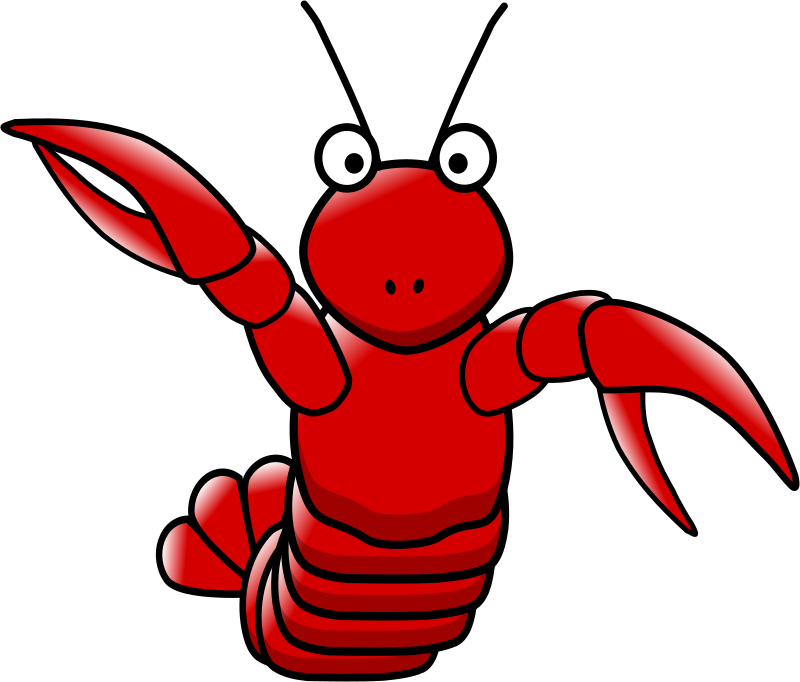
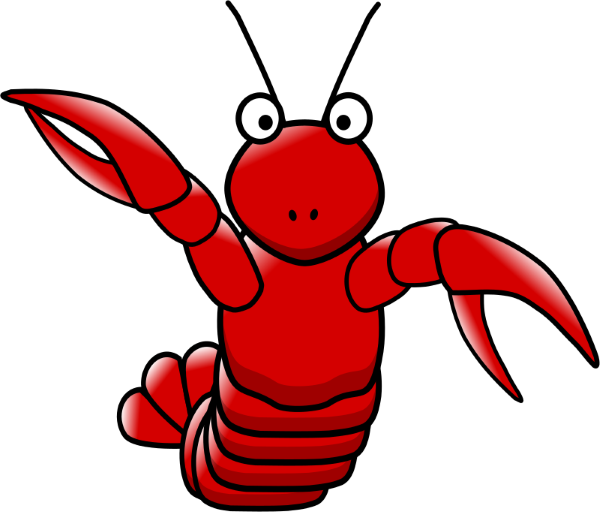
Added ClobType editting and deleting, changed the splash screen;

Changed region(s): [[0.99, 0.6875, 1.0, 0.7188], [0.3, 0.875, 0.33, 0.9062]]

diff --git a/LobsterWpf/TableSelectorWindow.xaml b/LobsterWpf/TableSelectorWindow.xaml
@@ -5,27 +5,26 @@
         xmlns:mc="http://schemas.openxmlformats.org/markup-compatibility/2006"
         xmlns:local="clr-namespace:LobsterWpf"
         mc:Ignorable="d"
-        Title="TableSelectorWindow" Height="300" Width="300" ResizeMode="NoResize" Icon="Resources/Images/cartoon-lobster.ico">
-    <Grid>
-        <Grid.RowDefinitions>
-            <RowDefinition Height="42.667"/>
-            <RowDefinition/>
-            <RowDefinition Height="31.333" />
-        </Grid.RowDefinitions>
-        <StackPanel Orientation="Horizontal" Grid.Row="2" HorizontalAlignment="Right" Margin="0,0.333,0,0" Width="160">
-            <Button x:Name="acceptButton" Content="Accept" HorizontalAlignment="Right" VerticalAlignment="Center" Width="75" Height="20" Margin="0,6,10,5" Click="AcceptButton_Click"/>
-            <Button x:Name="cancelButton" Content="Cancel" HorizontalAlignment="Right" VerticalAlignment="Center" Width="75" Height="20" Margin="0,6,15,5" RenderTransformOrigin="0.5,0.5" Click="CancelButton_Click"/>
-        </StackPanel>
-        <ListBox x:Name="tableListBox" HorizontalAlignment="Left" Grid.Row="1" Margin="10,5.333,0,4.333" Width="273" ItemsSource="{Binding TableList}">
-            <ListBox.ItemTemplate>
-                <DataTemplate DataType="Table">
-                    <StackPanel>
-                        <TextBlock Text="{Binding Fullname}"/>
-                    </StackPanel>
-                </DataTemplate>
-            </ListBox.ItemTemplate>
-        </ListBox>
-        <Label x:Name="label" Content="{Binding MessageLabel, FallbackValue=Label}" HorizontalAlignment="Left" HorizontalContentAlignment="Stretch" Margin="10,10,0,0" VerticalAlignment="Top"  Grid.Row="0"/>
-
-    </Grid>
+        Title="TableSelectorWindow" Height="300" Width="300" ResizeMode="NoResize" Icon="Resources/Images/cartoon-lobster.ico" ShowInTaskbar="False">
+  <Grid>
+    <Grid.RowDefinitions>
+      <RowDefinition Height="Auto"/>
+      <RowDefinition/>
+      <RowDefinition Height="Auto" />
+    </Grid.RowDefinitions>
+    <Label x:Name="label" Content="{Binding MessageLabel, FallbackValue=Label}" HorizontalAlignment="Left" HorizontalContentAlignment="Stretch" Margin="5" VerticalAlignment="Top"  Grid.Row="0"/>
+    <StackPanel Orientation="Horizontal" Grid.Row="2" HorizontalAlignment="Right" Margin="5">
+      <Button x:Name="acceptButton" Content="Accept" HorizontalAlignment="Right" VerticalAlignment="Center" Width="75"  Click="AcceptButton_Click"/>
+      <Button x:Name="cancelButton" Content="Cancel" HorizontalAlignment="Right" VerticalAlignment="Center" Width="75"  Margin="5,0,0,0" Click="CancelButton_Click"/>
+    </StackPanel>
+    <ListBox x:Name="tableListBox" HorizontalAlignment="Left" Grid.Row="1" ItemsSource="{Binding TableList}">
+      <ListBox.ItemTemplate>
+        <DataTemplate DataType="Table">
+          <StackPanel>
+            <TextBlock Text="{Binding Fullname}"/>
+          </StackPanel>
+        </DataTemplate>
+      </ListBox.ItemTemplate>
+    </ListBox>
+  </Grid>
 </Window>

diff --git a/LobsterWpf/ClobTypeListWindow.xaml b/LobsterWpf/ClobTypeListWindow.xaml
@@ -5,13 +5,13 @@
         xmlns:mc="http://schemas.openxmlformats.org/markup-compatibility/2006"
         xmlns:local="clr-namespace:LobsterWpf"
         mc:Ignorable="d"
-        Title="ClobTypeListWindow" Height="300" Width="400" MinWidth="500" MinHeight="300">
+        Title="ClobTypeListWindow" Height="300" Width="400" MinWidth="400" MinHeight="300">
   <Grid>
     <Grid.RowDefinitions>
       <RowDefinition Height="*"/>
       <RowDefinition Height="Auto"/>
     </Grid.RowDefinitions>
-    <ListBox Grid.Row="0" ItemsSource="{Binding ClobTypeList}">
+    <ListBox Name="clobTypeListBox" Grid.Row="0" ItemsSource="{Binding ClobTypeList}">
       <ListBox.ItemTemplate>
         <DataTemplate DataType="ClobTypeView">
           <StackPanel>
@@ -28,12 +28,11 @@
       </Grid.ColumnDefinitions>
 
       <StackPanel Grid.Column="0" Orientation="Horizontal">
-        <Button Margin="5" Width="75" HorizontalAlignment="Left">New</Button>
-        <Button Margin="5" Width="75" HorizontalAlignment="Left">Edit</Button>
-        <Button Margin="5" Width="75" HorizontalAlignment="Left">Delete</Button>
+        <Button Margin="5" Width="75" HorizontalAlignment="Left" Click="NewButton_Click">New</Button>
+        <Button Margin="5" Width="75" HorizontalAlignment="Left" Click="EditButton_Click">Edit</Button>
+        <Button Margin="5" Width="75" HorizontalAlignment="Left" Click="DeleteButton_Click">Delete</Button>
       </StackPanel>
-      <Button Grid.Column="1" Margin="5" Width="75" HorizontalAlignment="Right">Cancel</Button>
+      <Button Grid.Column="1" Margin="5" Width="75" HorizontalAlignment="Right" Click="CancelButton_Click">Cancel</Button>
     </Grid>
-    
   </Grid>
 </Window>

diff --git a/LobsterWpf/ConnectionListWindow.xaml b/LobsterWpf/ConnectionListWindow.xaml
@@ -5,7 +5,7 @@
         xmlns:mc="http://schemas.openxmlformats.org/markup-compatibility/2006"
         xmlns:local="clr-namespace:LobsterWpf"
         mc:Ignorable="d"
-        Title="Connections" Height="500" Width="500" Icon="Resources/Images/cartoon-lobster.ico">
+        Title="Connections" Height="500" Width="500" Icon="Resources/Images/cartoon-lobster.ico" ShowInTaskbar="False">
   <Grid>
     <Grid.RowDefinitions>
       <RowDefinition Height="35"/>

diff --git a/LobsterWpf/EditClobTypeWindow.xaml b/LobsterWpf/EditClobTypeWindow.xaml
@@ -5,7 +5,7 @@
         xmlns:mc="http://schemas.openxmlformats.org/markup-compatibility/2006"
         xmlns:local="clr-namespace:LobsterWpf"
         mc:Ignorable="d"
-        Title="EditClobTypeWindow" Height="300" Width="300">
+        Title="EditClobTypeWindow" Height="300" Width="300" ShowInTaskbar="False">
   <Grid>
     <Grid.ColumnDefinitions>
       <ColumnDefinition Width="Auto"/>

diff --git a/LobsterWpf/ClobTypeListWindow.xaml.cs b/LobsterWpf/ClobTypeListWindow.xaml.cs
@@ -18,6 +18,7 @@ namespace LobsterWpf
 {
     using System.Collections.Generic;
     using System.Collections.ObjectModel;
+    using System.IO;
     using System.Windows;
     using LobsterModel;
 
@@ -60,6 +61,51 @@ namespace LobsterWpf
                 ClobTypeView view = new ClobTypeView(type);
                 this.ClobTypeList.Add(view);
             }
+        }
+
+        private void NewButton_Click(object sender, RoutedEventArgs e)
+        {
+
+        }
+
+        private void EditButton_Click(object sender, RoutedEventArgs e)
+        {
+            if (this.clobTypeListBox.SelectedIndex == -1)
+            {
+                return;
+            }
+
+            ClobTypeView clobType = this.ClobTypeList[this.clobTypeListBox.SelectedIndex];
+            EditClobTypeWindow window = new EditClobTypeWindow(clobType.ClobTypeObject);
+            window.Owner = this;
+            bool? result = window.ShowDialog();
+            this.RefreshClobTypeList();
+        }
+
+        private void DeleteButton_Click(object sender, RoutedEventArgs e)
+        {
+            if (this.clobTypeListBox.SelectedIndex == -1)
+            {
+                return;
+            }
+
+            ClobTypeView clobType = this.ClobTypeList[this.clobTypeListBox.SelectedIndex];
+            try
+            {
+                File.Delete(clobType.FilePath);
+                this.RefreshClobTypeList();
+            }
+            catch ( IOException ex)
+            {
+                MessageLog.LogError($"An IO exception occurred when deleting the ClobType file {clobType.FilePath}: {ex}");
+                MessageBox.Show($"A error occurred when deleting the file. Check the logs for more information.");
+            }
+        }
+
+        private void CancelButton_Click(object sender, RoutedEventArgs e)
+        {
+            this.DialogResult = false;
+            this.Close();
         }
     }
 }

diff --git a/LobsterWpf/ClobTypeView.cs b/LobsterWpf/ClobTypeView.cs
@@ -28,7 +28,9 @@ namespace LobsterWpf
     using System.Collections.Generic;
     using System.ComponentModel;
     using System.IO;
+    using System.Windows;
     using LobsterModel;
+    using Microsoft.WindowsAPICodePack.Dialogs;
 
     /// <summary>
     /// A view for a model clob type.
@@ -184,9 +186,36 @@ namespace LobsterWpf
             }
         }
 
-        internal bool ApplyChanges()
+        public bool ApplyChanges()
         {
-            throw new NotImplementedException();
+            if (this.FilePath == null || !File.Exists(this.FilePath))
+            {
+                CommonSaveFileDialog dlg = new CommonSaveFileDialog();
+                dlg.Filters.Add(new CommonFileDialogFilter("eXtensible Markup Language", "*.xml"));
+                dlg.Title = "Save Clob Type As";
+                dlg.DefaultFileName = this.Name?.Replace(" ", string.Empty) + ".xml";
+                CommonFileDialogResult result = dlg.ShowDialog();
+                if (result == CommonFileDialogResult.Ok)
+                {
+                    this.FilePath = dlg.FileName;
+                }
+                else
+                {
+                    return false;
+                }
+            }
+
+            try
+            {
+                ClobType.Serialise(this.FilePath, this.ClobTypeObject);
+                return true;
+            }
+            catch (IOException ex)
+            {
+                MessageLog.LogError($"An error occurred when serialising ClobType {this.Name} to {this.FilePath}: {ex}");
+                MessageBox.Show($"An error occurred when saving the file: {ex.Message}");
+                return false;
+            }
         }
     }
 }

diff --git a/LobsterWpf/DatabaseConfigView.cs b/LobsterWpf/DatabaseConfigView.cs
@@ -271,7 +271,7 @@ namespace LobsterWpf
                 CommonSaveFileDialog dlg = new CommonSaveFileDialog();
                 dlg.Filters.Add(new CommonFileDialogFilter("eXtensible Markup Language", "*.xml"));
                 dlg.Title = "Save Lobster Connection As";
-                dlg.DefaultFileName = "NewConnection.xml";
+                dlg.DefaultFileName = this.Name.Replace(" ", string.Empty) + "NewConnection.xml";
                 CommonFileDialogResult result = dlg.ShowDialog();
                 if (result == CommonFileDialogResult.Ok)
                 {
